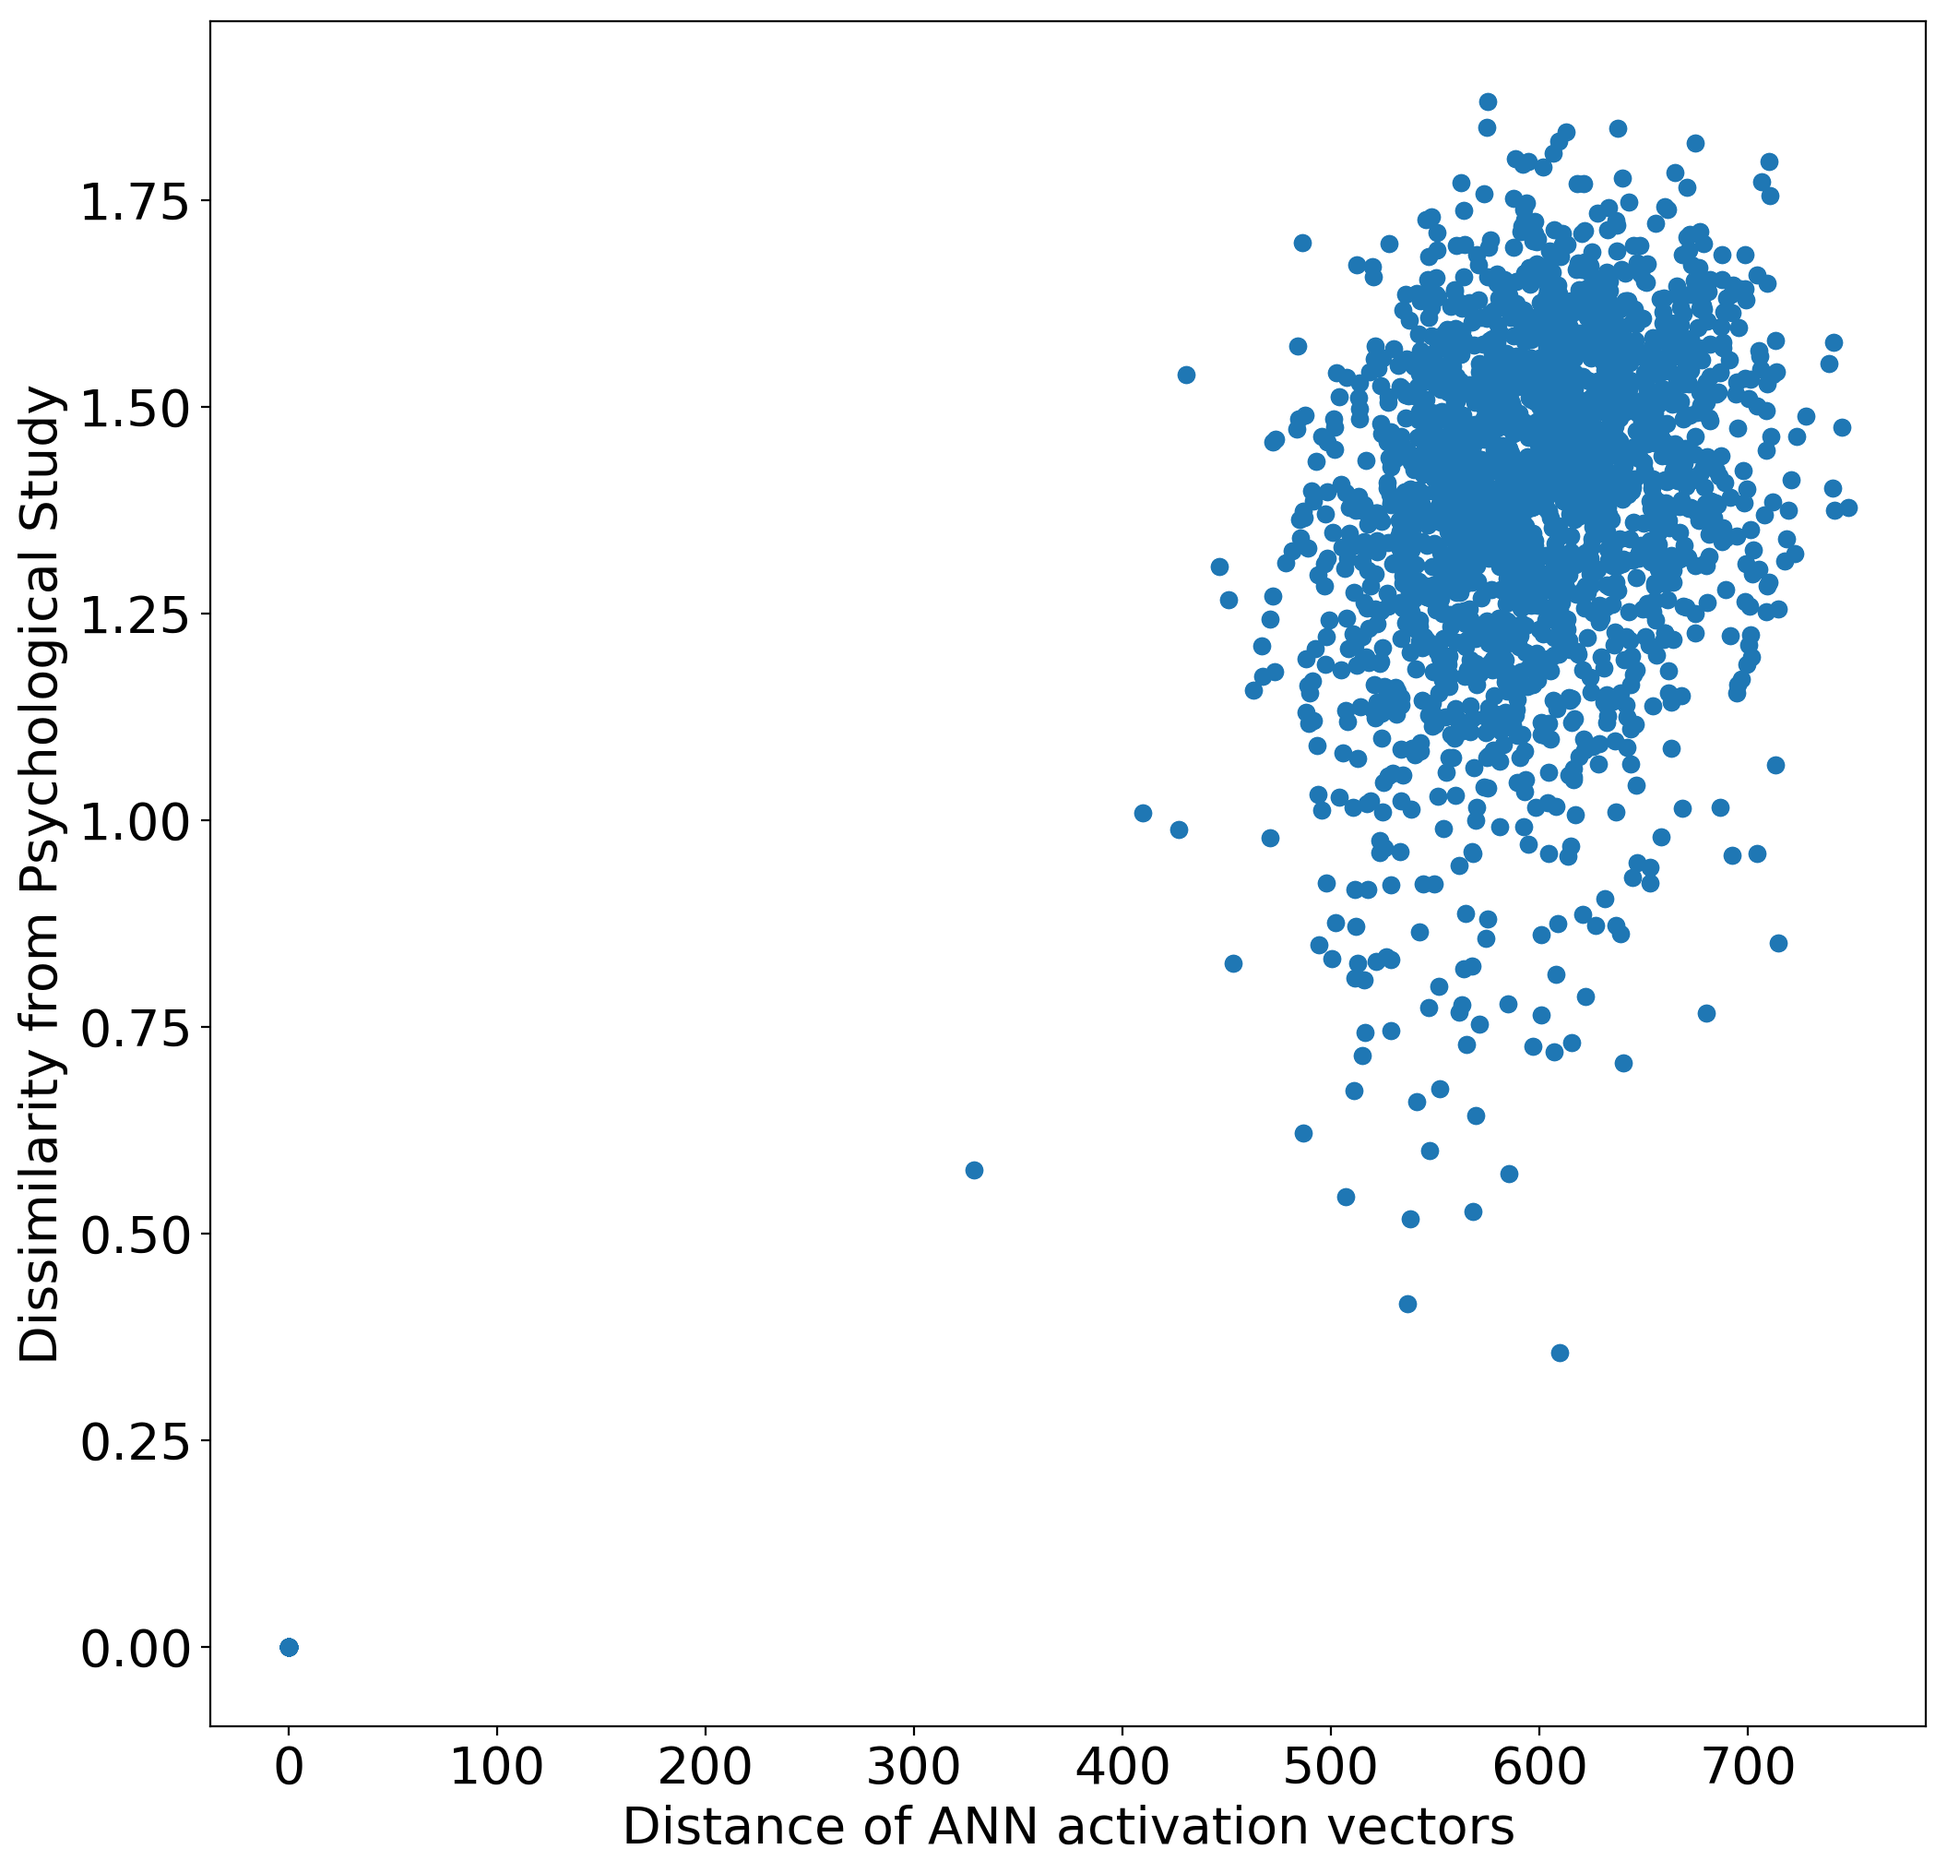
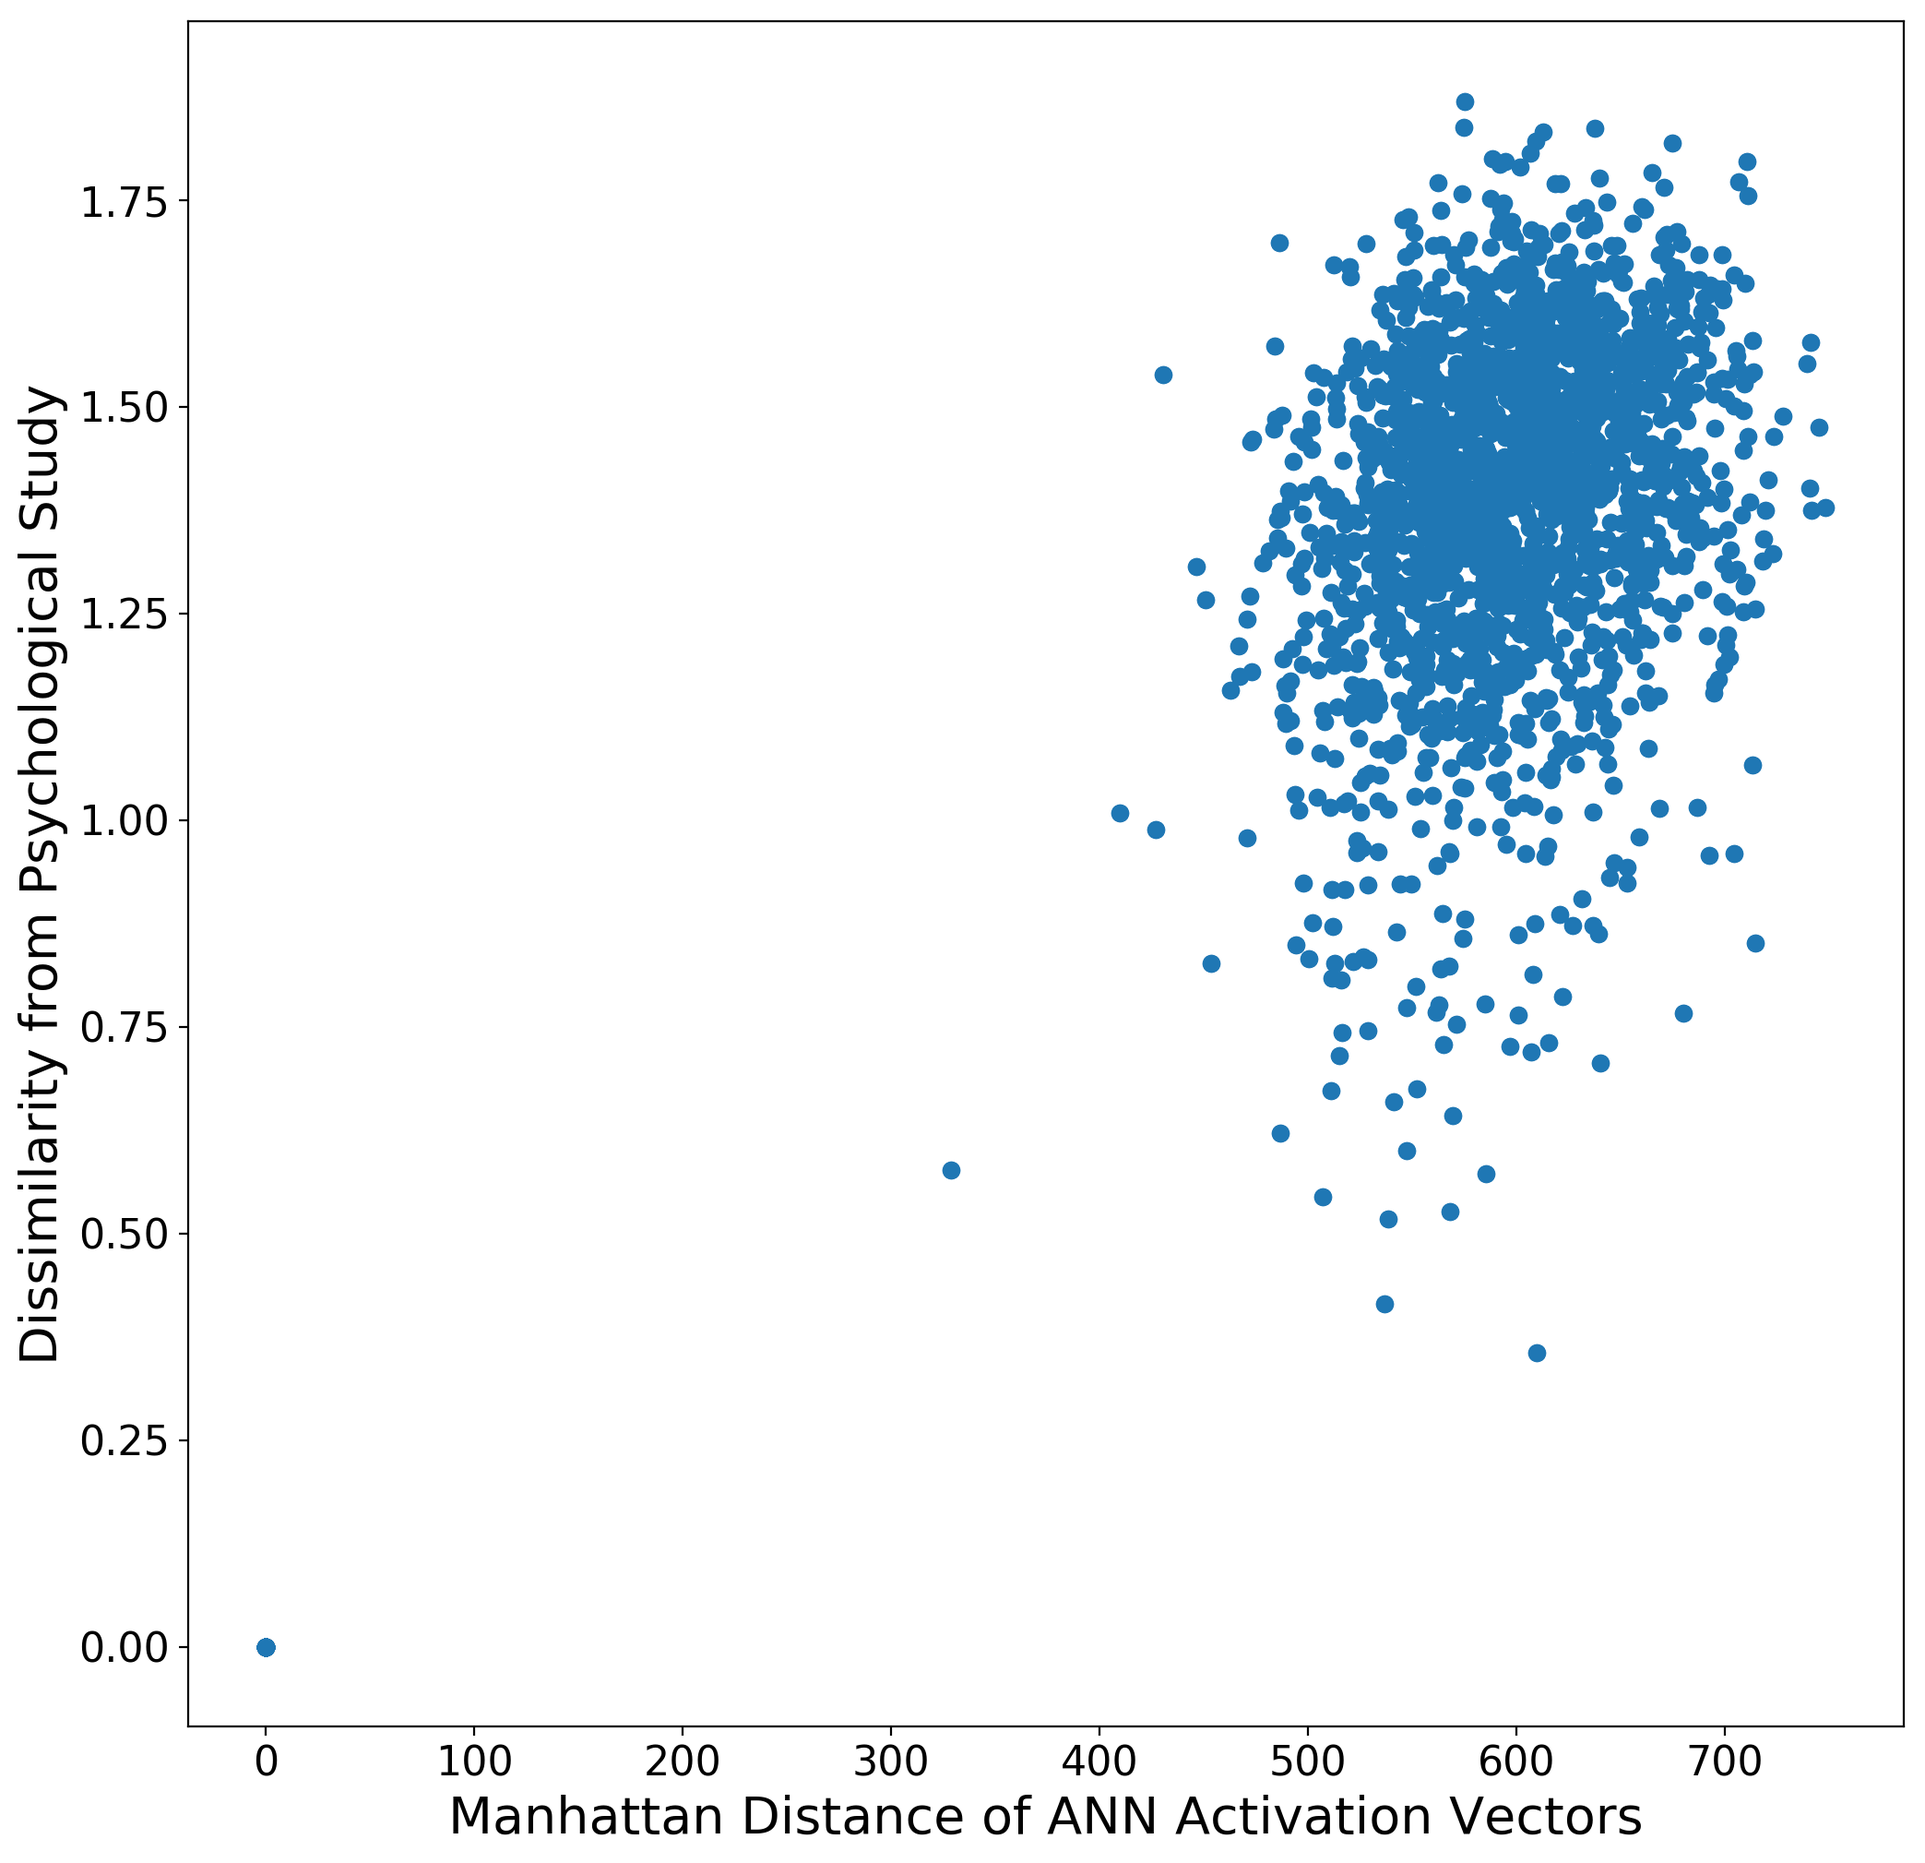
Nicer plots

diff --git a/code/correlations/visualize_correlations.py b/code/correlations/visualize_correlations.py
@@ -19,6 +19,8 @@ args = parser.parse_args()
 
 pixel_data = {'pearson':{}, 'spearman':{}, 'kendall':{}, 'r2_linear':{}, 'r2_isotonic':{}}
 mds_data = {'pearson':{}, 'spearman':{}, 'kendall':{}, 'r2_linear':{}, 'r2_isotonic':{}}
+metric_display = {'pearson': r"Pearson's $r$", 'spearman': r"Spearman's $\rho$", 'kendall': r"Kendall's $\tau$",
+                      'r2_linear': r"$R^2$ based on a Linear Regression", 'r2_isotonic': r"$R^2$ based on a Isotonic Regression"}
 
 # read in pixel-based information
 with open(args.pixel_file, 'r') as f:
@@ -90,18 +92,13 @@ for metric in pixel_data.keys():
                 best_pixel_result_scoring = ['{0}-{1}'.format(aggregator, max_i), max_val]
 
                 
-        # add best MDS
-#        if scoring in mds_dict.keys():
-#            y_mds = [max(map(lambda x: x[1], mds_scores))]*len(bar_indices)
-#            label_list.append('best MDS')
-#            ax.plot(bar_indices, y_mds)
-            
-        
         # create the final plot and store it
+        ax.tick_params(axis="x", labelsize=16)
+        ax.tick_params(axis="y", labelsize=16)
         ax.set_xlabel('Block Size', fontsize = 20)
         ax.set_xticks(bar_indices)
         ax.set_xticklabels(legend)
-        ax.set_ylabel(metric, fontsize = 20)
+        ax.set_ylabel(metric_display[metric], fontsize = 20)
         if metric == 'r2':
             ax.set_ylim(-1,1)
         plt.legend(label_list, fontsize = 20)
@@ -124,13 +121,10 @@ for metric in pixel_data.keys():
             y_values = list(map(lambda x: x[1], sorted_values))
             ax.plot(bar_indices, y_values)
             
-            # add best pixel
-            y_pixel = [best_pixel_result_metric[1]]*len(bar_indices)
-            legend.append('best pixel: {0}'.format(best_pixel_result_metric[0]))
-            ax.plot(bar_indices, y_pixel)
-
+            ax.tick_params(axis="x", labelsize=16)
+            ax.tick_params(axis="y", labelsize=16)
             ax.set_xlabel('Number of Dimensions', fontsize = 20)
-            ax.set_ylabel(metric, fontsize = 20)
+            ax.set_ylabel(metric_display[metric], fontsize = 20)
             ax.set_xticks(bar_indices)
             ax.set_xticklabels(legend)
             output_file_name = os.path.join(args.output_folder, '{0}-{1}-MDS.jpg'.format(metric, scoring))

diff --git a/code/correlations/scatter_plot.py b/code/correlations/scatter_plot.py
@@ -34,24 +34,24 @@ target_dissimilarities = input_data['dissimilarities']
 
 if args.mds is not None:
     transformed_items = load_mds_vectors(args.mds, item_ids)
-    x_label = 'Distance in MDS Space'
+    x_label = '{0} Distance in MDS Space'.format(args.distance)
     
 elif args.ann is not None:
     images = load_image_files_ann(item_ids, args.image_folder)
     transformed_items = extract_inception_features(images, args.ann)
-    x_label = 'Distance of ANN activation vectors'
+    x_label = '{0} Distance of ANN Activation Vectors'.format(args.distance)
     
 else: # i.e., args.pixel is not None
     images = load_image_files_pixel(item_ids, args.image_folder)
     transformed_items = downscale_images(images, aggregator_functions[args.pixel], args.block_size, args.greyscale, (1,-1))
-    x_label = 'Distance of downscaled images'
+    x_label = '{0} Distance of Downscaled Images'.format(args.distance)
     
 
 corr_dict = compute_correlations(transformed_items, target_dissimilarities, distance_functions[args.distance])
 
 fig, ax = plt.subplots(figsize=(12,12))
-ax.tick_params(axis="x", labelsize=20)
-ax.tick_params(axis="y", labelsize=20)
+ax.tick_params(axis="x", labelsize=16)
+ax.tick_params(axis="y", labelsize=16)
 ax.scatter(corr_dict['predictions'], corr_dict['targets'])
 plt.xlabel(x_label, fontsize = 20)
 plt.ylabel('Dissimilarity from Psychological Study', fontsize = 20)

diff --git a/code/preprocessing/analyze_similarities.py b/code/preprocessing/analyze_similarities.py
@@ -124,12 +124,12 @@ for idx1, item1 in enumerate(items_of_interest):
 
 # plot histograms of ranges and standard deviations
 plt.hist(similarity_ranges, bins=21)
-plt.title('distribution of similarity ranges')
+plt.title('Distribution of Similarity Ranges')
 plt.savefig(args.output_path + 'range.png', bbox_inches='tight', dpi=200)
 plt.close()
 
 plt.hist(similarity_stds, bins=21)
-plt.title('distribution of similarity std')
+plt.title('Distribution of Similarity Standard Deviations')
 plt.savefig(args.output_path + 'std.png', bbox_inches='tight', dpi=200)
 plt.close()
 
@@ -241,11 +241,11 @@ for i in range(len(categories_of_interest)):
 
 # plot histograms of within vs between categories
 plt.hist(all_within, bins=21)
-plt.title('distribution of similarity ranges within categories')
+plt.title('Distribution of Similarity Ranges within Categories')
 plt.savefig(args.output_path + 'within.png', bbox_inches='tight', dpi=200)
 plt.close()
 
 plt.hist(all_between, bins=21)
-plt.title('distribution of similarity ranges between categories')
+plt.title('Distribution of Similarity Ranges between Categories')
 plt.savefig(args.output_path + 'between.png', bbox_inches='tight', dpi=200)
 plt.close()

diff --git a/code/mds/visualize.py b/code/mds/visualize.py
@@ -102,8 +102,8 @@ for dim, mapping in vector_map.items():
             		bbox=dict(boxstyle='round,pad=0.5', fc='yellow', alpha=0.5),
             		arrowprops=dict(arrowstyle='->', connectionstyle='arc3,rad=0'))
             
-            plt.rc('xtick',labelsize = 20)
-            plt.rc('ytick',labelsize = 20)
+            plt.rc('xtick',labelsize = 16)
+            plt.rc('ytick',labelsize = 16)
             plt.xlabel('MDS dimension #{0}'.format(first_dim + 1), fontsize = 20)
             plt.ylabel('MDS dimension #{0}'.format(second_dim + 1), fontsize = 20)
     
